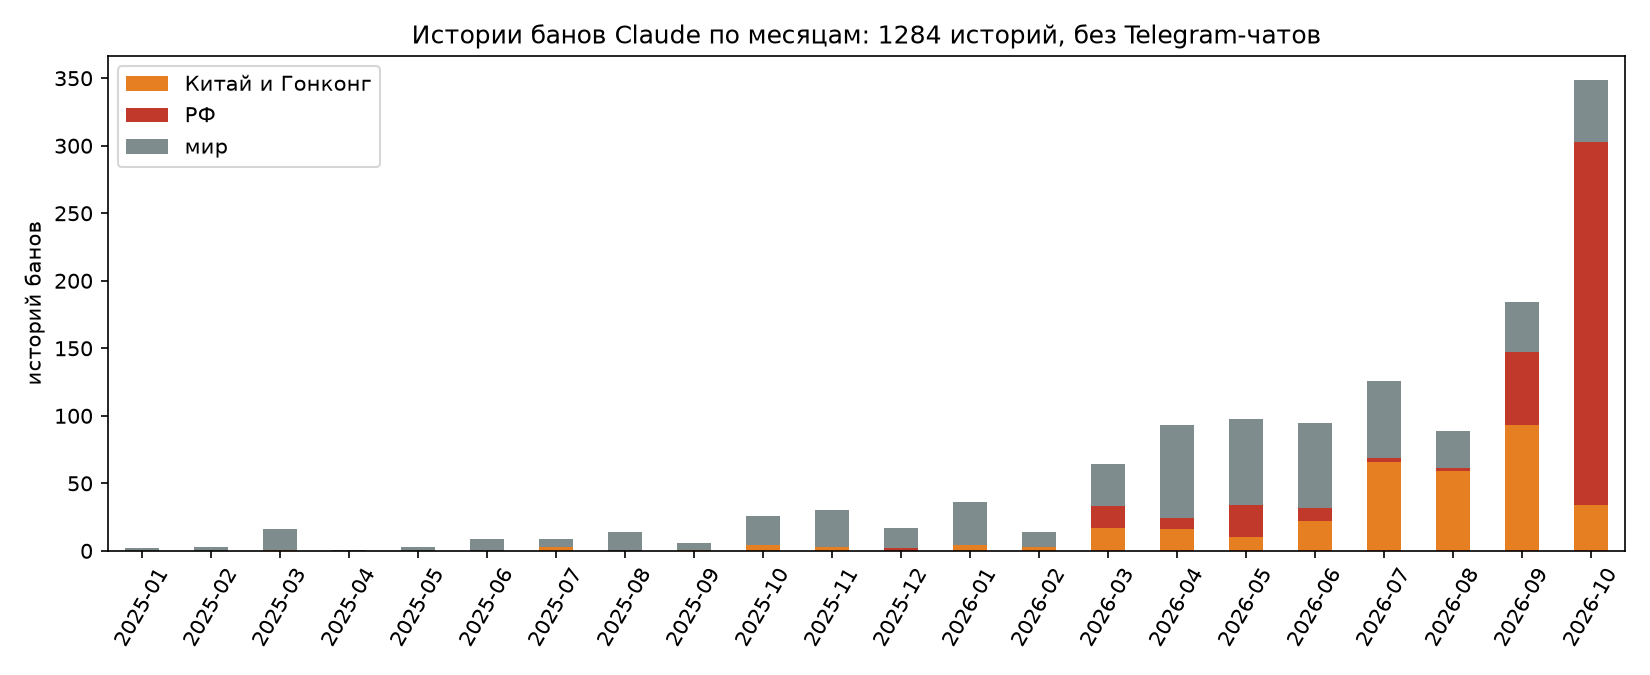
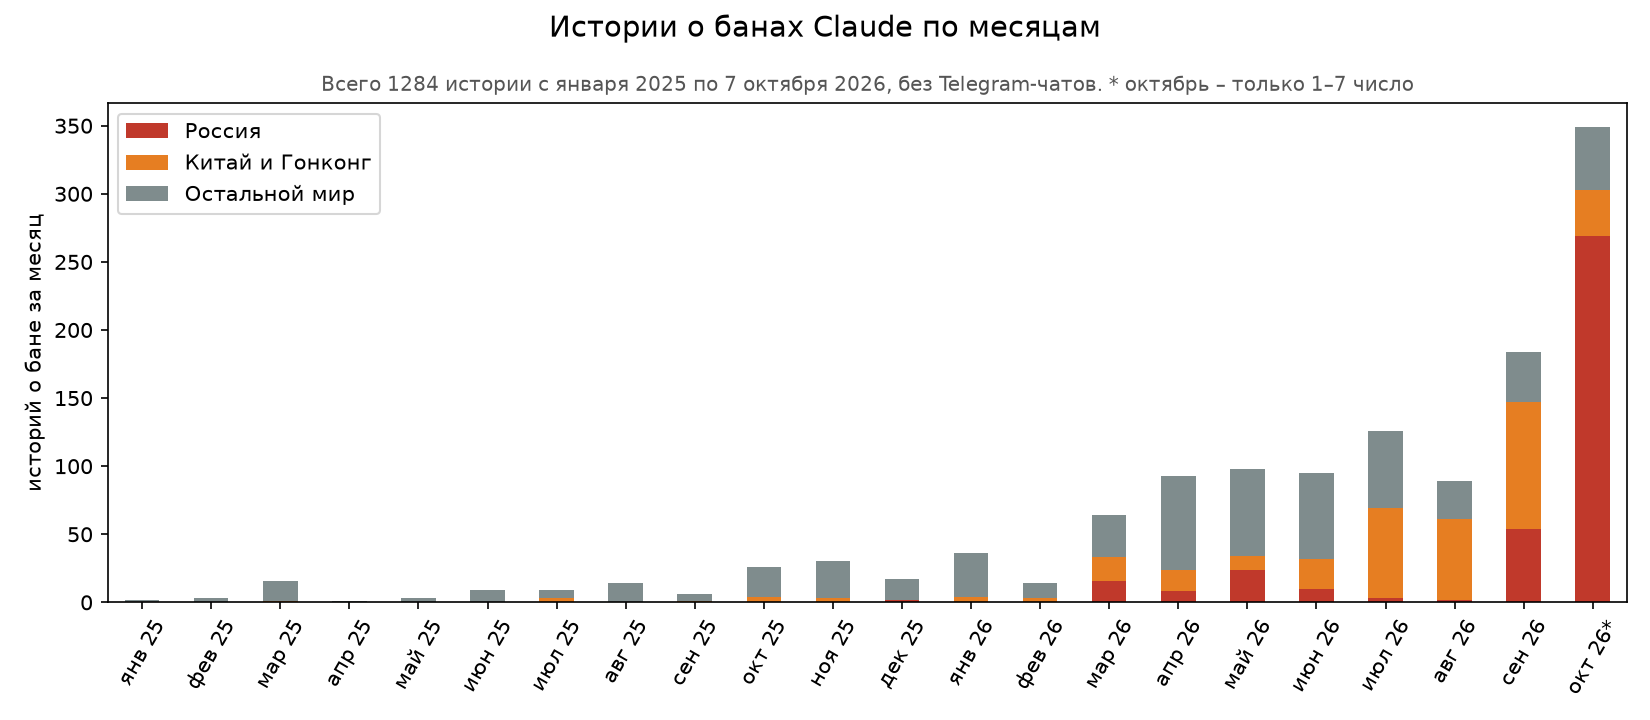
График по месяцам: понятные подписи, неполный октябрь помечен

diff --git a/groups.py b/groups.py
@@ -139,12 +139,19 @@ out.append(md(wk.loc[top.index].sort_index()))
 # помесячный график без Telegram-чатов: их выгружали только с сентября 2026, месяцы иначе несравнимы
 ban_m = ban[~ban["file"].isin(["wave_tg_a.csv", "wave_tg_b.csv", "wave_tg_c.csv", "chat2.csv"])] if "file" in ban else ban
 mo = ban_m.groupby([pd.Grouper(key="date", freq="MS"), "group"]).size().unstack(fill_value=0)
-ax = mo.plot(kind="bar", stacked=True, figsize=(11, 4.5), color={"РФ": "#c0392b", "Китай и Гонконг": "#e67e22", "мир": "#7f8c8d"})
-ax.set_xticklabels([x.strftime("%Y-%m") for x in mo.index], rotation=60)
-ax.set_ylabel("историй банов")
+mo = mo[["РФ", "Китай и Гонконг", "мир"]].rename(columns={"РФ": "Россия", "мир": "Остальной мир"})
+last = ban_m["date"].max()
+RU_M = ["янв", "фев", "мар", "апр", "май", "июн", "июл", "авг", "сен", "окт", "ноя", "дек"]
+labels = [f"{RU_M[x.month - 1]} {x.strftime('%y')}" for x in mo.index]
+labels[-1] += "*"
+ax = mo.plot(kind="bar", stacked=True, figsize=(11, 4.8), color={"Россия": "#c0392b", "Китай и Гонконг": "#e67e22", "Остальной мир": "#7f8c8d"})
+ax.set_xticklabels(labels, rotation=60)
+ax.set_ylabel("историй о бане за месяц")
 ax.set_xlabel("")
-ax.legend(title=None)
-ax.set_title(f"Истории банов Claude по месяцам: {len(ban_m)} историй, без Telegram-чатов")
+ax.legend(title=None, loc="upper left")
+ax.figure.suptitle("Истории о банах Claude по месяцам", fontsize=14, y=0.98)
+ax.set_title(f"Всего {len(ban_m)} истории с января 2025 по {last.day} октября 2026, без Telegram-чатов. "
+             f"* октябрь – только 1–{last.day} число", fontsize=9.5, color="#555555")
 plt.tight_layout()
 plt.savefig(HERE / "results" / "bans_by_month_groups.png", dpi=150)
 plt.close()
